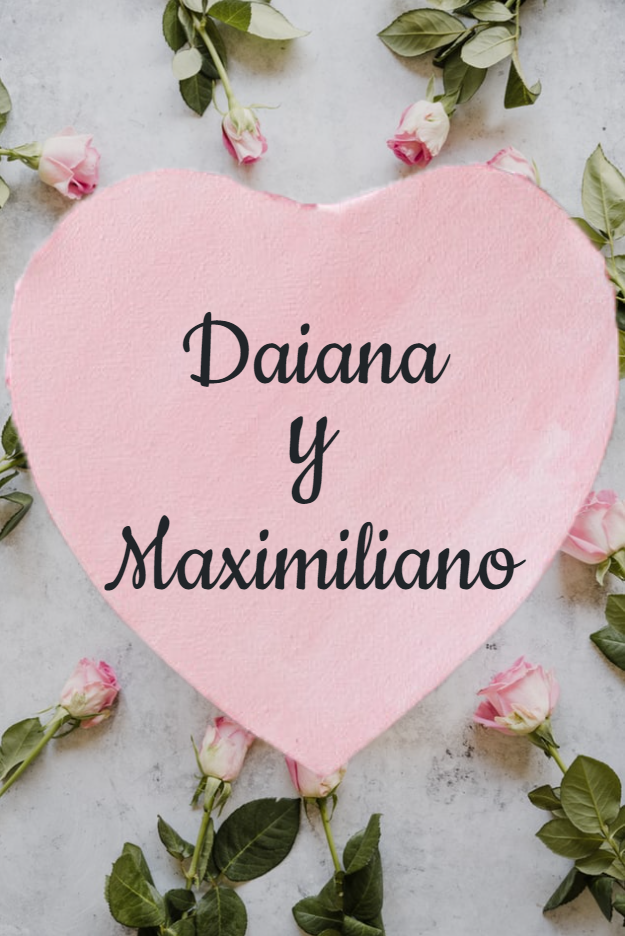
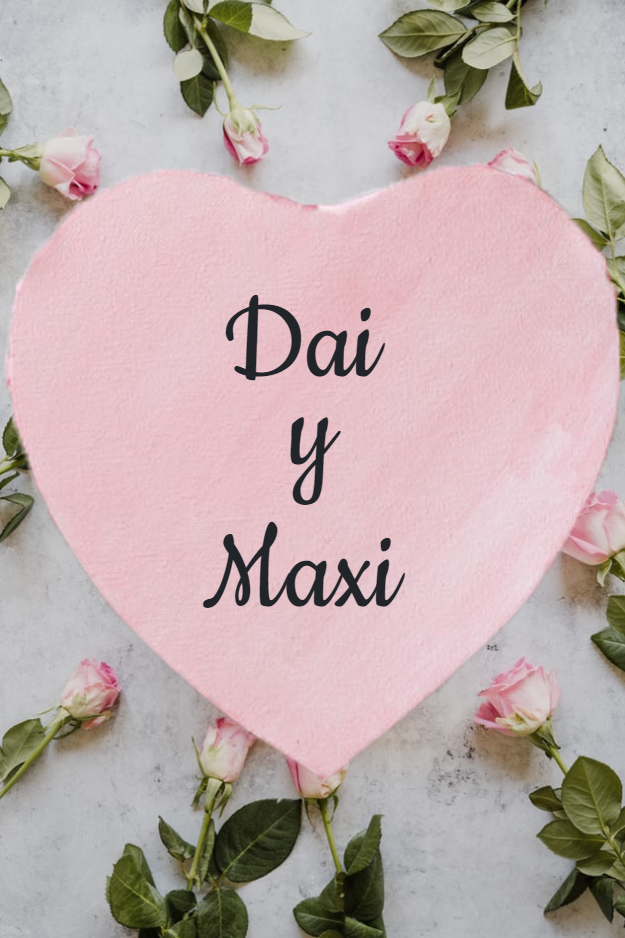
versión 1

diff --git a/index.html b/index.html
@@ -10,7 +10,7 @@
     <link href="https://fonts.googleapis.com/css2?family=Cookie&family=Mansalva&display=swap" rel="stylesheet">
     <link href="https://fonts.googleapis.com/css2?family=Fjalla+One&family=Noto+Sans&display=swap" rel="stylesheet">
     <link href="https://cdn.jsdelivr.net/npm/bootstrap@5.0.0-beta1/dist/css/bootstrap.min.css" rel="stylesheet" integrity="sha384-giJF6kkoqNQ00vy+HMDP7azOuL0xtbfIcaT9wjKHr8RbDVddVHyTfAAsrekwKmP1" crossorigin="anonymous">
-    <title>Daiana y Maximiliano</title>
+    <title>Dai y Maxi</title>
 </head>
 <body>
     <!--INTRO-->
